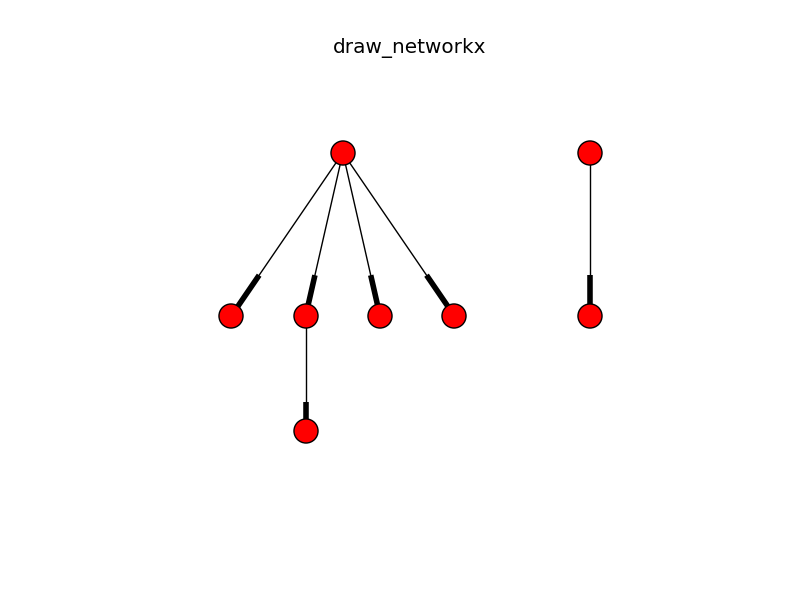
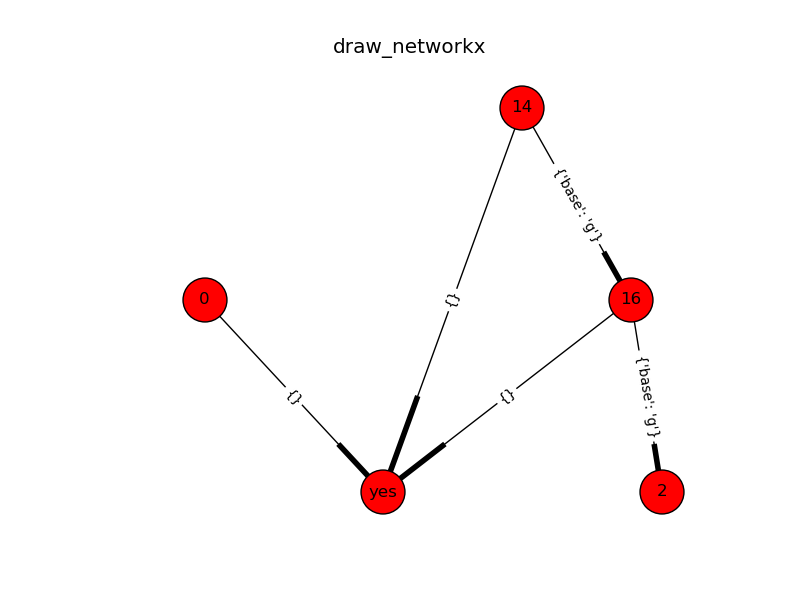
progress

diff --git a/src/id3.py b/src/id3.py
@@ -70,7 +70,7 @@ def build_tree(dna_data):
 
   i = 0
   # continue building when misclassj
-  while i < 4:
+  while i < 6:
     print "Build_Tree: parent_f is %d " % parent_f.index
     # print "Build_Tree: parent_f node's size is %d " % print_node(id3_tree,
         # parent_f)
@@ -81,30 +81,49 @@ def build_tree(dna_data):
     # returns a dict with split data
     split_data = make_subclass_vec(parent_f)
     print "Build_Tree while: split_data is of type %s " % type(split_data)
-    pprint (split_data)
+    # pprint (split_data)
 
     split_length = [ len(split[1]) for split in split_data.iteritems() ] 
 
+    # makde children
     for split in split_data.iteritems():
-      # this split is a tuple (key, val)
+      # this split is a tuple (basepair, data)
       if len(split[1]) < 2:
         # stop and make me a leaf, skip to next
-        print "data too small to split; making leaf"
-        id3_tree.add_node('leaf' + split[0])
-        id3_tree.add_edge(parent_f.index, 'leaf' + split[0], base=split[0]) 
+        # print "data too small to split; making leaf"
+        # label
+        # lab = 'leaf_' + split[0] + str(parent_f.index)
+        # id3_tree.add_node(lab,  data='filler')
+        # id3_tree.add_edge(parent_f.index, lab)
         continue
 
-      # pass just the list of dna and index of split
       child_f = build_node(parent_f, split[1])
       if child_f is None:
         print 'node failed to be built'
-        id3_tree.add_node('+/-', data=['leaf'])
-        id3_tree.add_edge(parent_f, '+/-')
+        # update parent node to be labeld as a leaf depending
+        # lab = '+/-_ ' + str(parent_f.index)
+        # id3_tree.add_node(lab, data=['leaf'])
+        # id3_tree.add_edge(parent_f.index, lab)
         continue
       else:
-        id3_tree.add_node(child_f.index, data=child_f) # don't forget split tuple
-        id3_tree.add_edge(parent_f.index, child_f.index, base=split[0])
+        if child_f.leaf_label == False:
+          id3_tree.add_node(child_f.index, data=child_f)
+          id3_tree.add_edge(parent_f.index, child_f.index, base=split[0])
+        elif child_f.leaf_label == '+':
+          # we have a node with all positive promoters. mark it as such
+          id3_tree.add_node(str(child_f.index) + ' yes' )
+          id3_tree.add_edge(parent_f.index, str(child_f.index) + ' yes',
+              base=split[0] )
+        elif child_f.leaf_label == '-':
+          # we have a node with all neg promoters. mark it as such
+          id3_tree.add_node(str(child_f.index) + ' no' )
+          id3_tree.add_edge(parent_f.index, str(child_f.index) + ' no',
+              base=split[0] )
+
     #update the parent_f for next layer
+    #if id3_tree.successors(parent_f.index) == []:
+
+
     if child_f is not None:
       parent_f = child_f
     else:
@@ -112,7 +131,23 @@ def build_tree(dna_data):
       break
     i += 1
 
+  clean_tree(id3_tree)
   return id3_tree
+
+
+def clean_tree(tree):
+  print "Sucessors of root: %s " % tree.nodes()
+  leaves = [ node for node in tree.nodes() if tree.successors(node) == [] ]
+  print "Printing leaves %s " % leaves
+
+  for node in tree.nodes():
+    if tree.successors(node) == []:
+      pred = tree.predecessors(node)
+      print 'predecessors list: %s ' % pred
+      tree.remove_node(node)
+      tree.add_node('yes')
+      tree.add_edge(pred[0], 'yes')
+
 
 
 def build_node(split_f, split_data):
@@ -121,12 +156,6 @@ def build_node(split_f, split_data):
     Args:
       f (feature): feature we are splitting
   """
-  # print "Build Node: dataset's type is : %s" % type(dataset)
-  # print "Build Node: f_split is type : %s" % type(dataset)
-
-  # list of each feature object, with a column vector of chars
-  # rebuilds the counts for each type of base
-  # i should have used a numpy matrix or something like that for ease.
   subfeature_list = []
   if split_f.index is not None:
     print ('Build Node: Attempting to build a node from %d values' %
@@ -138,6 +167,7 @@ def build_node(split_f, split_data):
   for f in subfeature_list:
     info_gain(f)
 
+
   # gets the max value for information gain 
   gain_list = [f.info_gain for f in subfeature_list]
   print 'highest info gain: %f, lowest IG: %f' % (max(gain_list), min(gain_list))
@@ -146,12 +176,23 @@ def build_node(split_f, split_data):
   # give this feature the data it has to potentially split on
   max_f.data = split_data
 
-  # evaluate the node's info gain
-  if gain_list[maxgain_id] <= 0.1:
-    print "Node is not good enough to add"
-    return None
+  # need to check for all pos and neg and if so, label it aas such
+  if max_f.pos == 0:
+    max_f.leaf_label = '-'
+    return max_f
+  if max_f.neg == 0:
+    max_f.leaf_label = '+'
+    return max_f
 
-  return (max_f)
+  # evaluate the node's info gain
+  if chi_squared(split_f) == True:
+    return max_f
+  else:
+    return None
+  # if gain_list[maxgain_id] <= 0.2:
+  #   print "Node is not good enough to add"
+  #   return None
+
 
 def print_node(g, node_index):
   print 'size of node: '

diff --git a/src/metrics.py b/src/metrics.py
@@ -79,19 +79,59 @@ def info_gain(f):
   f.info_gain = info_gain
 
   
-def chi_squared(f):
+def chi_squared(f, threshold=95):
   """
   Performs the chi-squared test needed for testing effectiveness of a split.
   """
-  # simply, 
-  # sum (observed - expected)^2
-  #     ------------------------
-  #          expected
-
   # sum  (promoters_ichild - expected_promoters_ichild)^2  + (non-p_i - # exp_non_pi)^2
   #   -----------------------------------------------------  -------------------------
   #       exp_promoters_ichild                                      exp_non_pi
-  if f.info_gain >= 0.1:
-    return 10
-  else:
-    return 1
+    # feature reference
+    # n : size of the feature
+    # a : tuple of base pair a (n_pos, n_neg, n_tot)
+    # recall that a base is a 4tuple with 
+  chisq = float(0)
+  # degrees of freedom vary if a base is empty
+  dof = 3
+  # little dictionary of mins
+  chisq_mins = {
+      95 : {
+        1 : 3.841,
+        2 : 5.991,
+        3 : 9.837,
+        4 : 11.668
+        }, 
+      99 : {
+        1 : 6.635,
+        2 : 9.210,
+        3 : 11.345,
+        4 : 13.227 
+        }
+      }
+
+  print str(f)
+  for base in f.bases:
+    base_pos = base[ 0 ]
+    base_neg = base[ 1 ]
+    base_tot = base[ 2 ]
+    print ' this base is : %s ' % str(base)
+    if base_tot == 0:
+      dof -= 1
+      continue
+    expected_pos = base_tot * (f.pos/f.n)
+    expected_neg = base_tot * (f.neg/f.n)
+    chi_pos =((base_pos - expected_pos)**2) / expected_pos
+    chi_neg = ((base_neg - expected_neg)**2) / expected_neg
+    chisq += chi_pos + chi_neg
+  print ("chi_squared minium value for dof: %d and threshold %d: %f " %
+      (dof, threshold, chisq_mins[threshold][dof]) )
+  print "computed chi_squared value : %d" % chisq
+
+  return chisq > chisq_mins[threshold][dof]
+
+
+
+
+
+
+

diff --git a/src/feature.py b/src/feature.py
@@ -25,6 +25,7 @@ class feature(object):
     data (list): the data that will be present for a if we split upon it. 
                 e.g., if we split on feature f, f.data = subset of data indexed
                 by that feature.
+    leaf_label ( string): label if this is a leaf node.
   """
   def __init__(self, n,a,c,g,t, pos, neg, index):
     # total size of feature
@@ -41,12 +42,13 @@ class feature(object):
     self.info_gain = float(-10)
     self.index = index
     self.data = None
+    self.leaf_label = False
 
   def __str__(self):
-    return "<Feature Obj: \n n ='" + str(self.n) + "'\n bases: '" + str(self.bases) + "' \n info_gain: '"  + str(self.info_gain )
-
-  def print_me(self):
-    print " -- Debug: feature object bases = " 
-    print self.bases
-    print " -- Debug: feature object size = %d "  % self.n
-    print " -- Debug: feature object info_gain = %f " % self.info_gain
+    return (
+        "<Feature Obj: \n ----n = " + str(self.n) +
+        "\n----bases: '" + str(self.bases) +
+        "\n----info_gain: "  + str(self.info_gain )+
+        "\n----self.pos: " + str(self.pos) +
+        "\n----self.neg: " + str(self.neg)
+        )

diff --git a/src/main.py b/src/main.py
@@ -53,12 +53,12 @@ if __name__ == "__main__":
   print "Size of the read data: %d" % len(data)
 
   tree = id3.build_tree(data)
-  print (tree.adjacency_list())
-  print tree.nodes()
+  # print (tree.adjacency_list())
+  # print tree.nodes()
   # print nx.info(tree)
   # print nx.adjacency_matrix(tree)
   graph = nx.to_agraph(tree)
-  print graph
+  # print graph
   graph.layout()
   graph.draw('test_clas.png')
 
@@ -69,8 +69,8 @@ if __name__ == "__main__":
     raise ImportError("This example needs Graphviz and either PyGraphviz or Pydot")
 
   plt.title("draw_networkx")
-  pos=nx.graphviz_layout(tree,prog='dot')
-  nx.draw(tree,pos,with_labels=False,arrows=True)
+  pos=nx.graphviz_layout(tree,root = 16, prog='dot')
+  nx.draw(tree,pos,with_labels=True, node_size = 1000)
   nx.draw_networkx_edge_labels(tree,pos)
   plt.savefig('nx_test.png')
   nx.write_dot(tree, 'decision_tree.dot')
